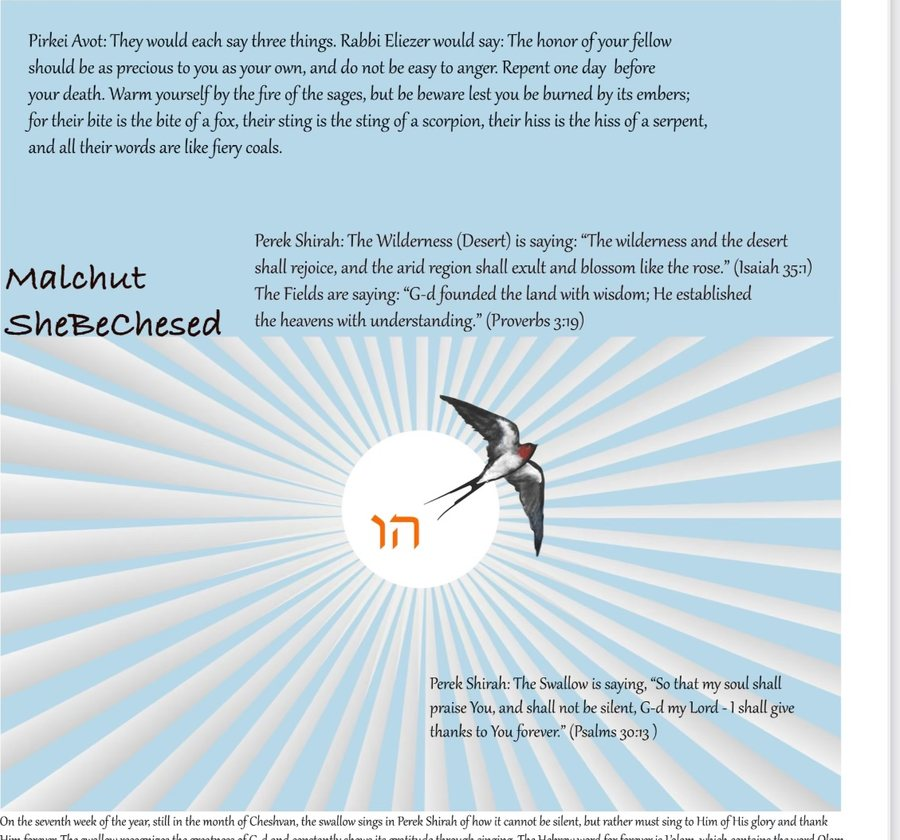
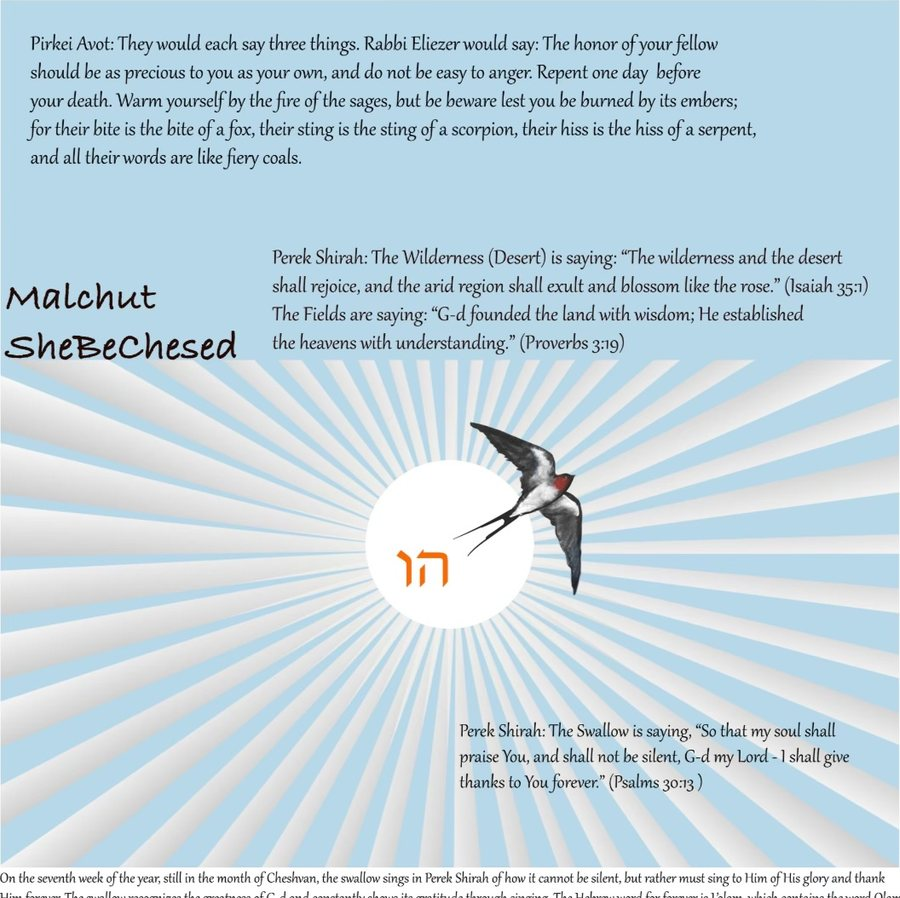
Add the Fly as week 21, and cut the scrollbars out of fourteen pages
Malchut sheBeTiferet closes the third seven. Adding it showed why the
right-hand trim had been doing nothing on most pages: the captures carry
the window's scrollbar down that edge, a grey strip sitting outside the
page's white margin, so trimming inward from the edge stopped on it
immediately. Fourteen pages were holding roughly 12px of scrollbar and,
behind it, 50 to 60px of untrimmed white.

The importer now drops a light grey edge strip before trimming, and
trims once more after scaling, since scaling lightens rows that were
only nearly blank. Every page rebuilt from its original upload.

No page now carries a scrollbar or a blank margin at any edge, and all
twenty-one declare the size they are.

Claude-Session: https://claude.ai/code/session_01RS2FMfmK8R2uQnxc6BrjxF

diff --git a/index.html b/index.html
@@ -9759,25 +9759,26 @@ hr.wr-hr{border:none;border-top:1px solid var(--border);margin:14px 0;}
   // has to be reserved before the image arrives or the title jumps.
   const WEEK_ART = {
     '1':   [900, 1003],
-    '2':   [900, 778],
+    '2':   [900, 826],
     '3':   [900, 861],
     '4':  [900, 897],
     '5':  [900, 880],
     '6':   [900, 867],
-    '7':   [900, 840],
-    '8':   [900, 776],
-    '9':   [900, 778],
-    '10':  [900, 778],
-    '11':  [900, 778],
-    '12':  [900, 771],
-    '13':  [900, 777],
-    '14':  [900, 778],
-    '15':  [900, 784],
-    '16':  [900, 775],
+    '7':   [900, 898],
+    '8':   [900, 825],
+    '9':   [900, 828],
+    '10':  [900, 828],
+    '11':  [900, 829],
+    '12':  [900, 821],
+    '13':  [900, 825],
+    '14':  [900, 823],
+    '15':  [900, 839],
+    '16':  [900, 809],
     '17':  [900, 897],
-    '18':  [900, 801],
-    '19':  [900, 779],
+    '18':  [900, 851],
+    '19':  [900, 827],
     '20':  [900, 897],
+    '21':  [900, 835],
     '50':  [900, 897],
     '51':  [900, 868],
     '52':  [900, 909],
